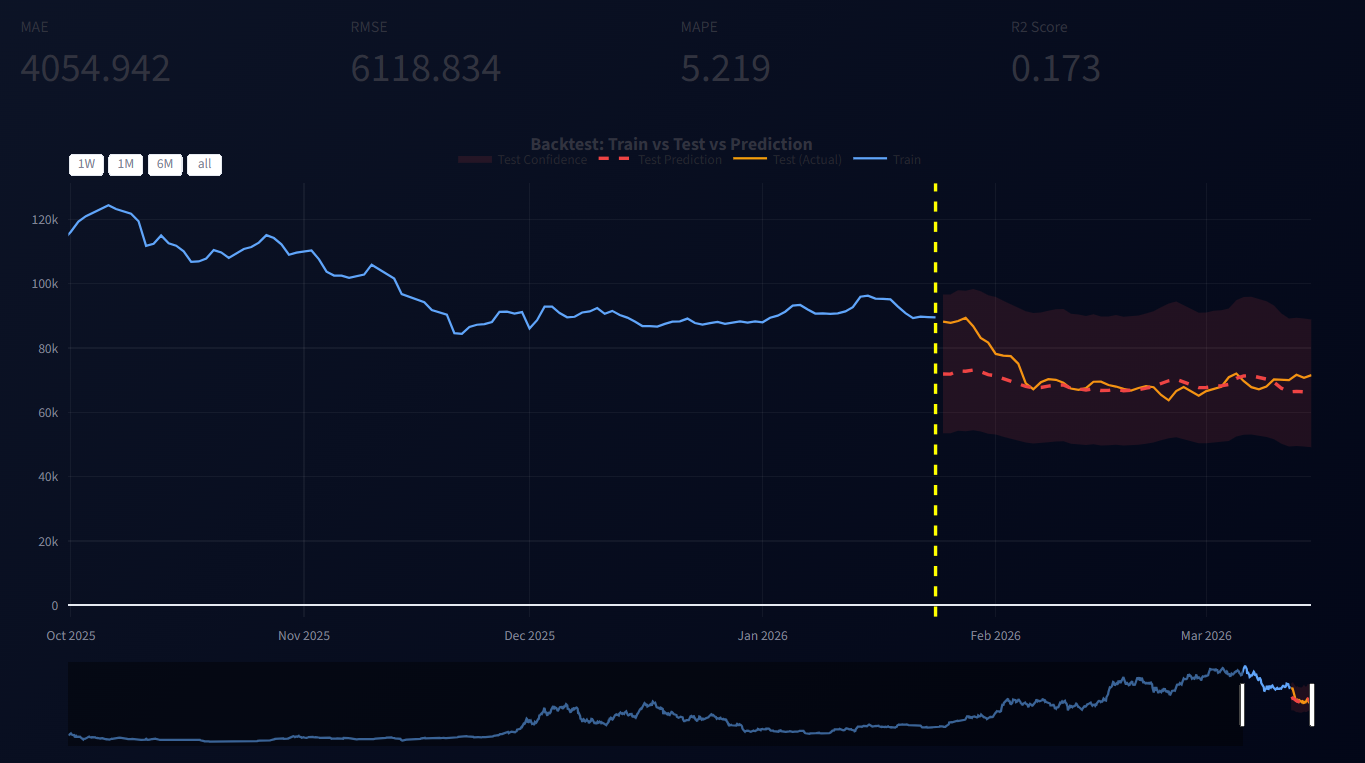
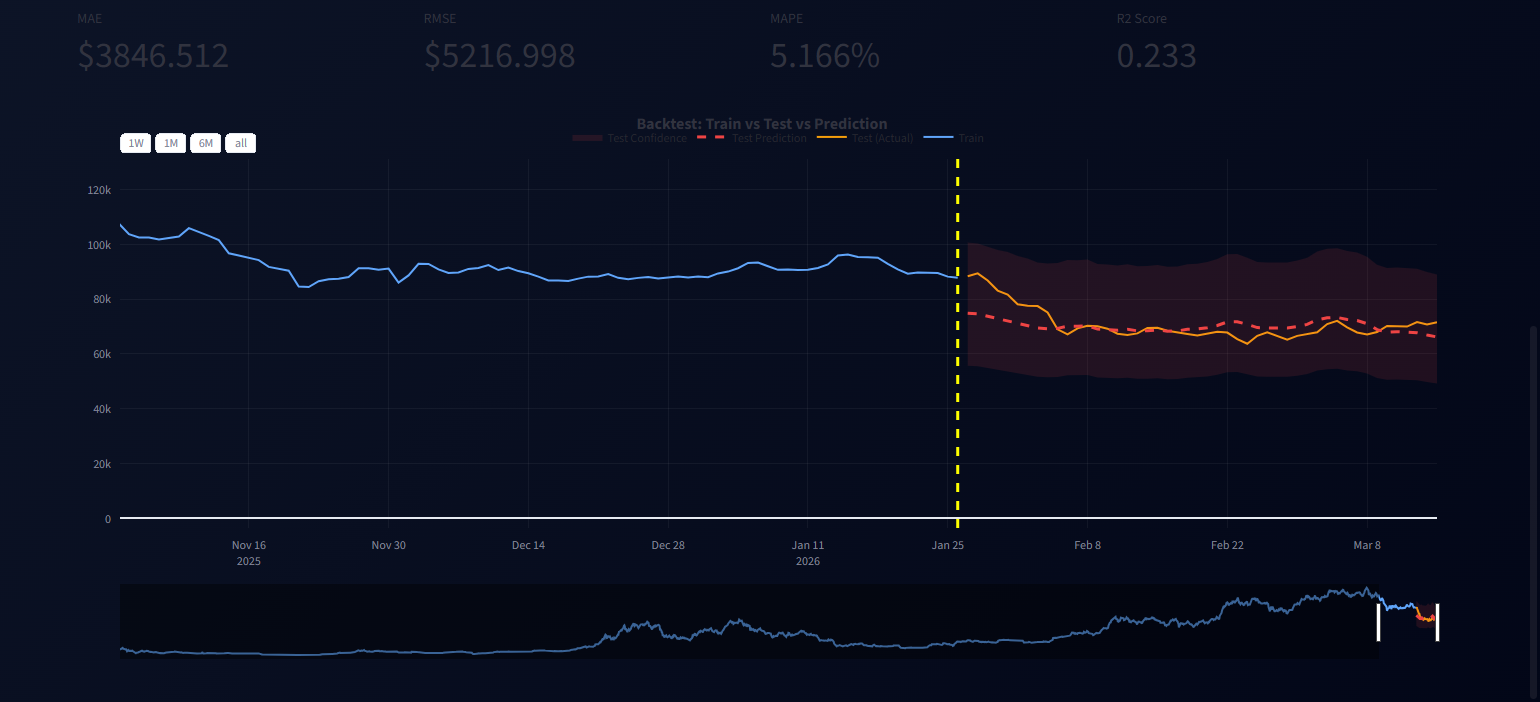
feature: add new image

diff --git a/app.py b/app.py
@@ -240,7 +240,12 @@ if run_btn:
 
                 cols = st.columns(4)
                 for i, k in enumerate(["MAE", "RMSE", "MAPE", "R2 Score"]):
-                    cols[i].metric(k, f"{metrics[k]:.3f}")
+                    if k in ["MAE", "RMSE"]:
+                        cols[i].metric(k, f"${metrics[k]:.3f}")
+                    elif k == "MAPE":
+                        cols[i].metric(k, f"{metrics[k]:.3f}%")
+                    else:
+                        cols[i].metric(k, f"{metrics[k]:.3f}")
 
                 st.plotly_chart(
                     engine.plot_backtest(train, test, test_forecast),
